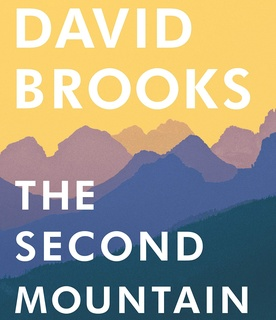
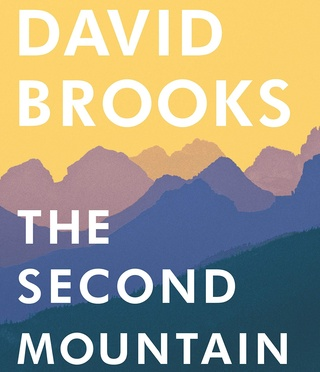
Non-square image adjustments + alts

diff --git a/_layouts/home.html b/_layouts/home.html
@@ -21,7 +21,7 @@ layout: default
           {% include post_meta.html post=post %}
           {%- if site.show_excerpts -%}
             {%- if post.cover -%}
-            <a href="{{ post.url | relative_url }}"><img class="cover-image" src="{{ 'covers' | absolute_url }}/{{ post.cover }}.jpg" /></a>
+            <a href="{{ post.url | relative_url }}"><img class="cover-image" src="{{ 'covers' | absolute_url }}/{{ post.cover }}.jpg" alt="{{ post.title | escape }}" /></a>
             {%- endif -%}
             {% capture tovabb %}<a href="{{ post.url | relative_url }}">Tovább &raquo;</a>{% endcapture %}
             {{ post.excerpt | append: tovabb | markdownify }}

diff --git a/_sass/minima/_layout.scss b/_sass/minima/_layout.scss
@@ -580,7 +580,6 @@ img.cover-image {
   margin-right: 20px;
   margin-bottom: 20px;
   max-width: 220px;
-  max-height: 220px;
   position: relative;
   top: 6px;
   left: 2px;
@@ -597,14 +596,12 @@ img.cover-image {
   margin-right: 20px;
   margin-bottom: 20px;
   max-width: 320px;
-  max-height: 320px;
   position: relative;
   top: 6px;
   left: 2px;
 
   @include media-query(420px) {
     max-width: 220px;
-    max-height: 220px;
   }
 
   @include media-query(520px) {
